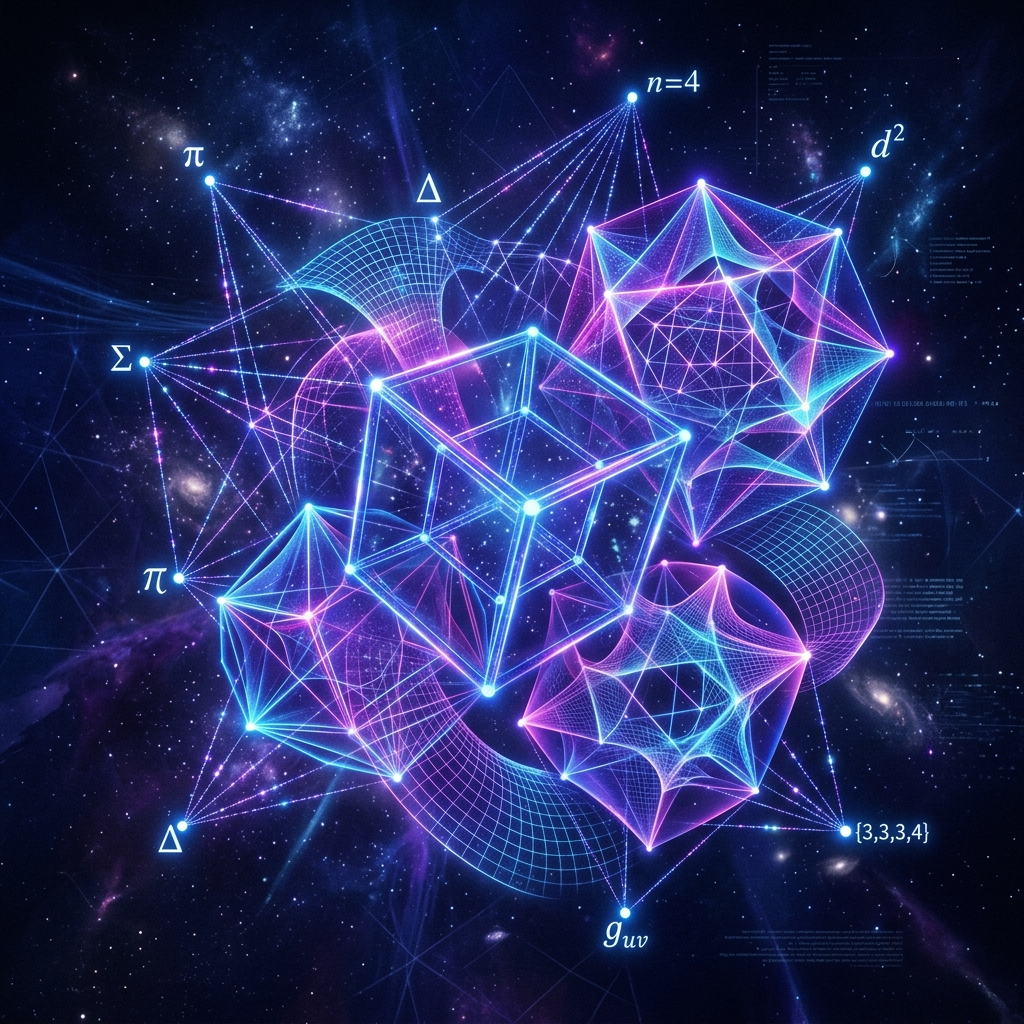
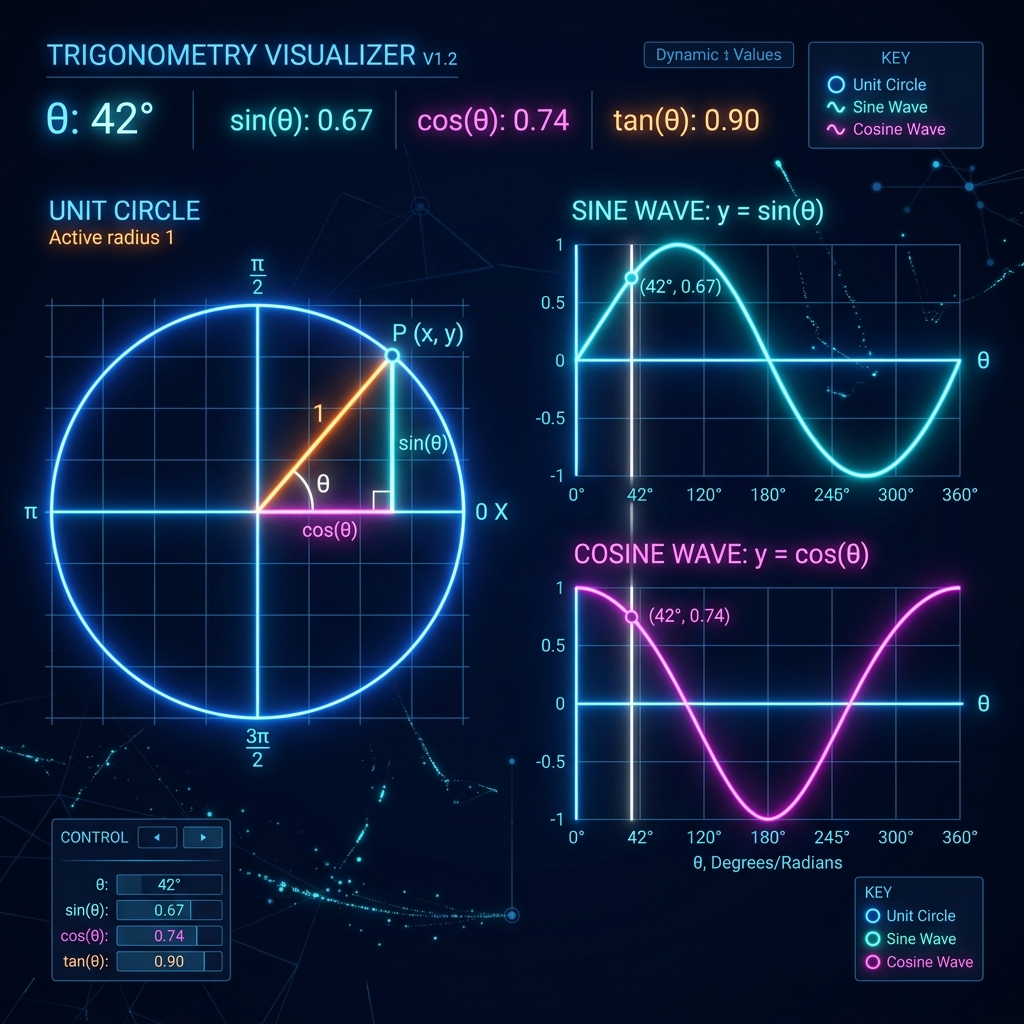
Update video titles: Trigonometry & Hyperbolic Functions geometric aesthetics and reorder entries

diff --git a/index.html b/index.html
@@ -356,12 +356,20 @@
                         source: "1rh43RpxTxIRq8CndKjyiCK_B7PQNmYRC"
                     },
                     {
-                        title: "现代几何学：高维形态",
-                        tag: "微分几何",
-                        desc: "从流形到高维曲率，探索构建现代物理与广义相对论的几何语言。",
+                        title: "三角函数全貌",
+                        tag: "数学基础",
+                        desc: "从单位圆映射到周期波形，全面剖析三角函数的定义、性质与几何全貌。",
                         thumb: "images/Geometric.png",
                         type: "local",
                         source: "videos/Geometric.mp4"
+                    },
+                    {
+                        title: "三角函数与双曲函数的几何美学",
+                        tag: "双曲函数",
+                        desc: "解析圆函数与双曲函数的对称统一，探索几何变换与函数图像的终极美学。",
+                        thumb: "images/cosmic.png",
+                        type: "local",
+                        source: "videos/cosmic.mp4"
                     }
                 ]
             },
@@ -537,14 +545,6 @@
                         type: "local",
                         source: "videos/gps.mp4",
                         gdriveSource: "1eEKr3GjVLTLmVQSpHX1ye5MwGzIxR1Rj"
-                    },
-                    {
-                        title: "宇宙学：暗物质与膨胀",
-                        tag: "深空探索",
-                        desc: "探索宇宙大爆炸、暗能量与宇宙网暴胀的终极宏伟图景。",
-                        thumb: "images/cosmic.png",
-                        type: "local",
-                        source: "videos/cosmic.mp4"
                     }
                 ]
             }
